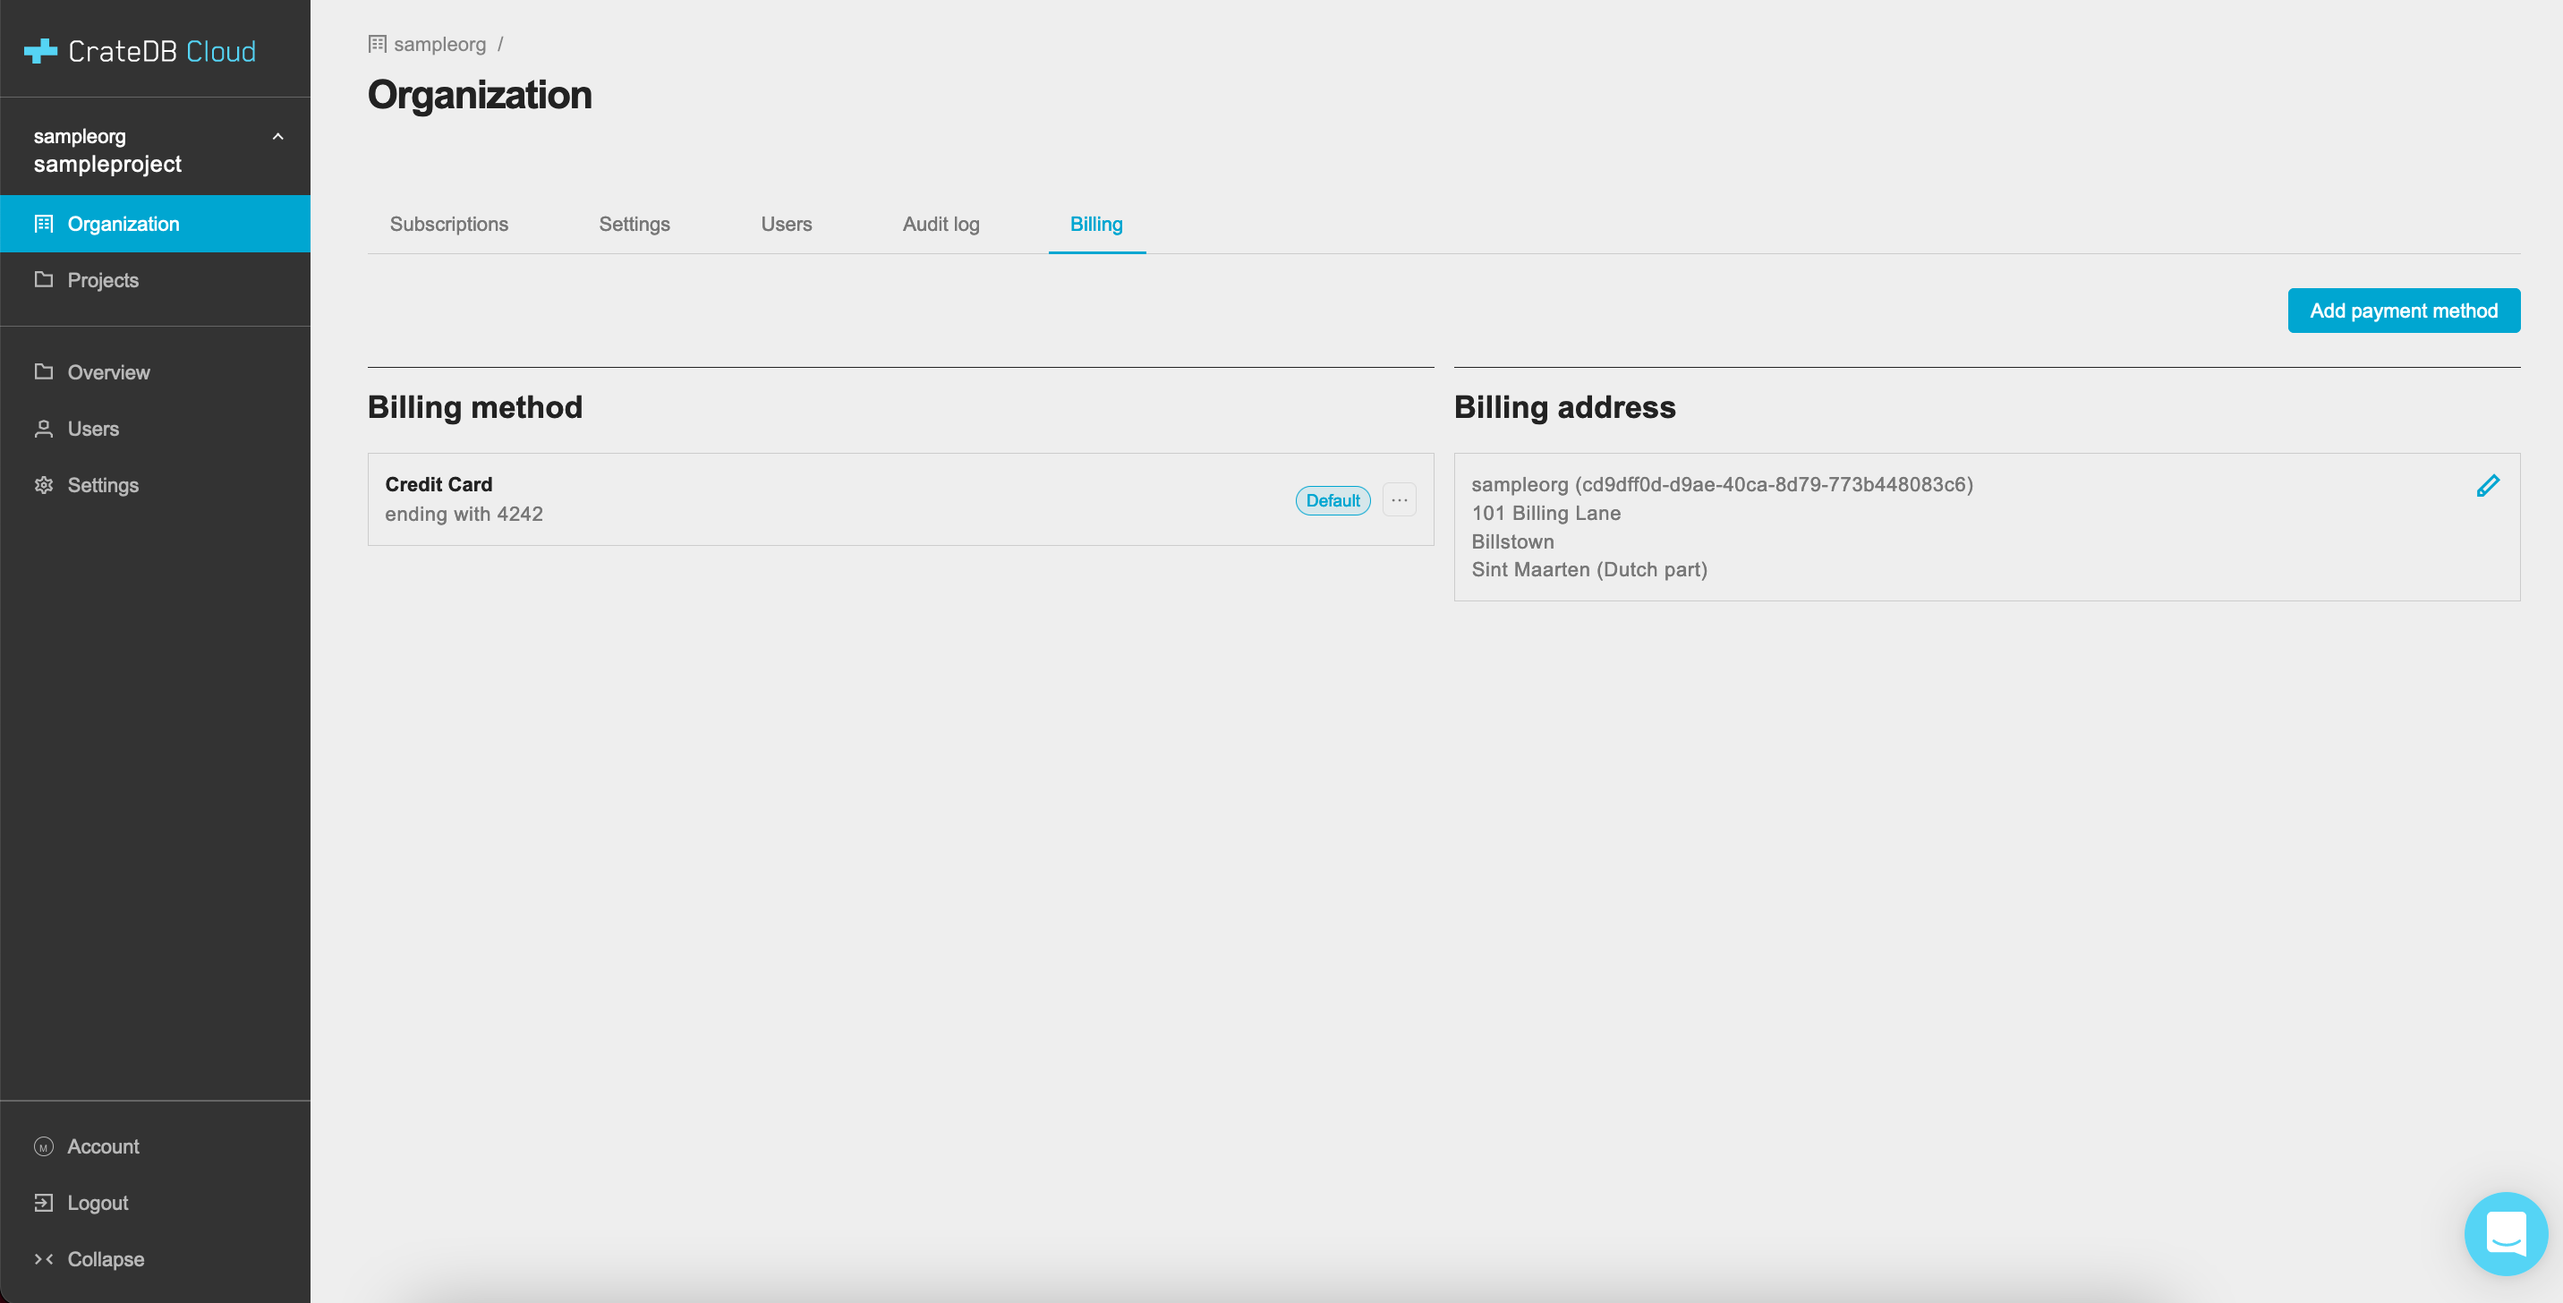
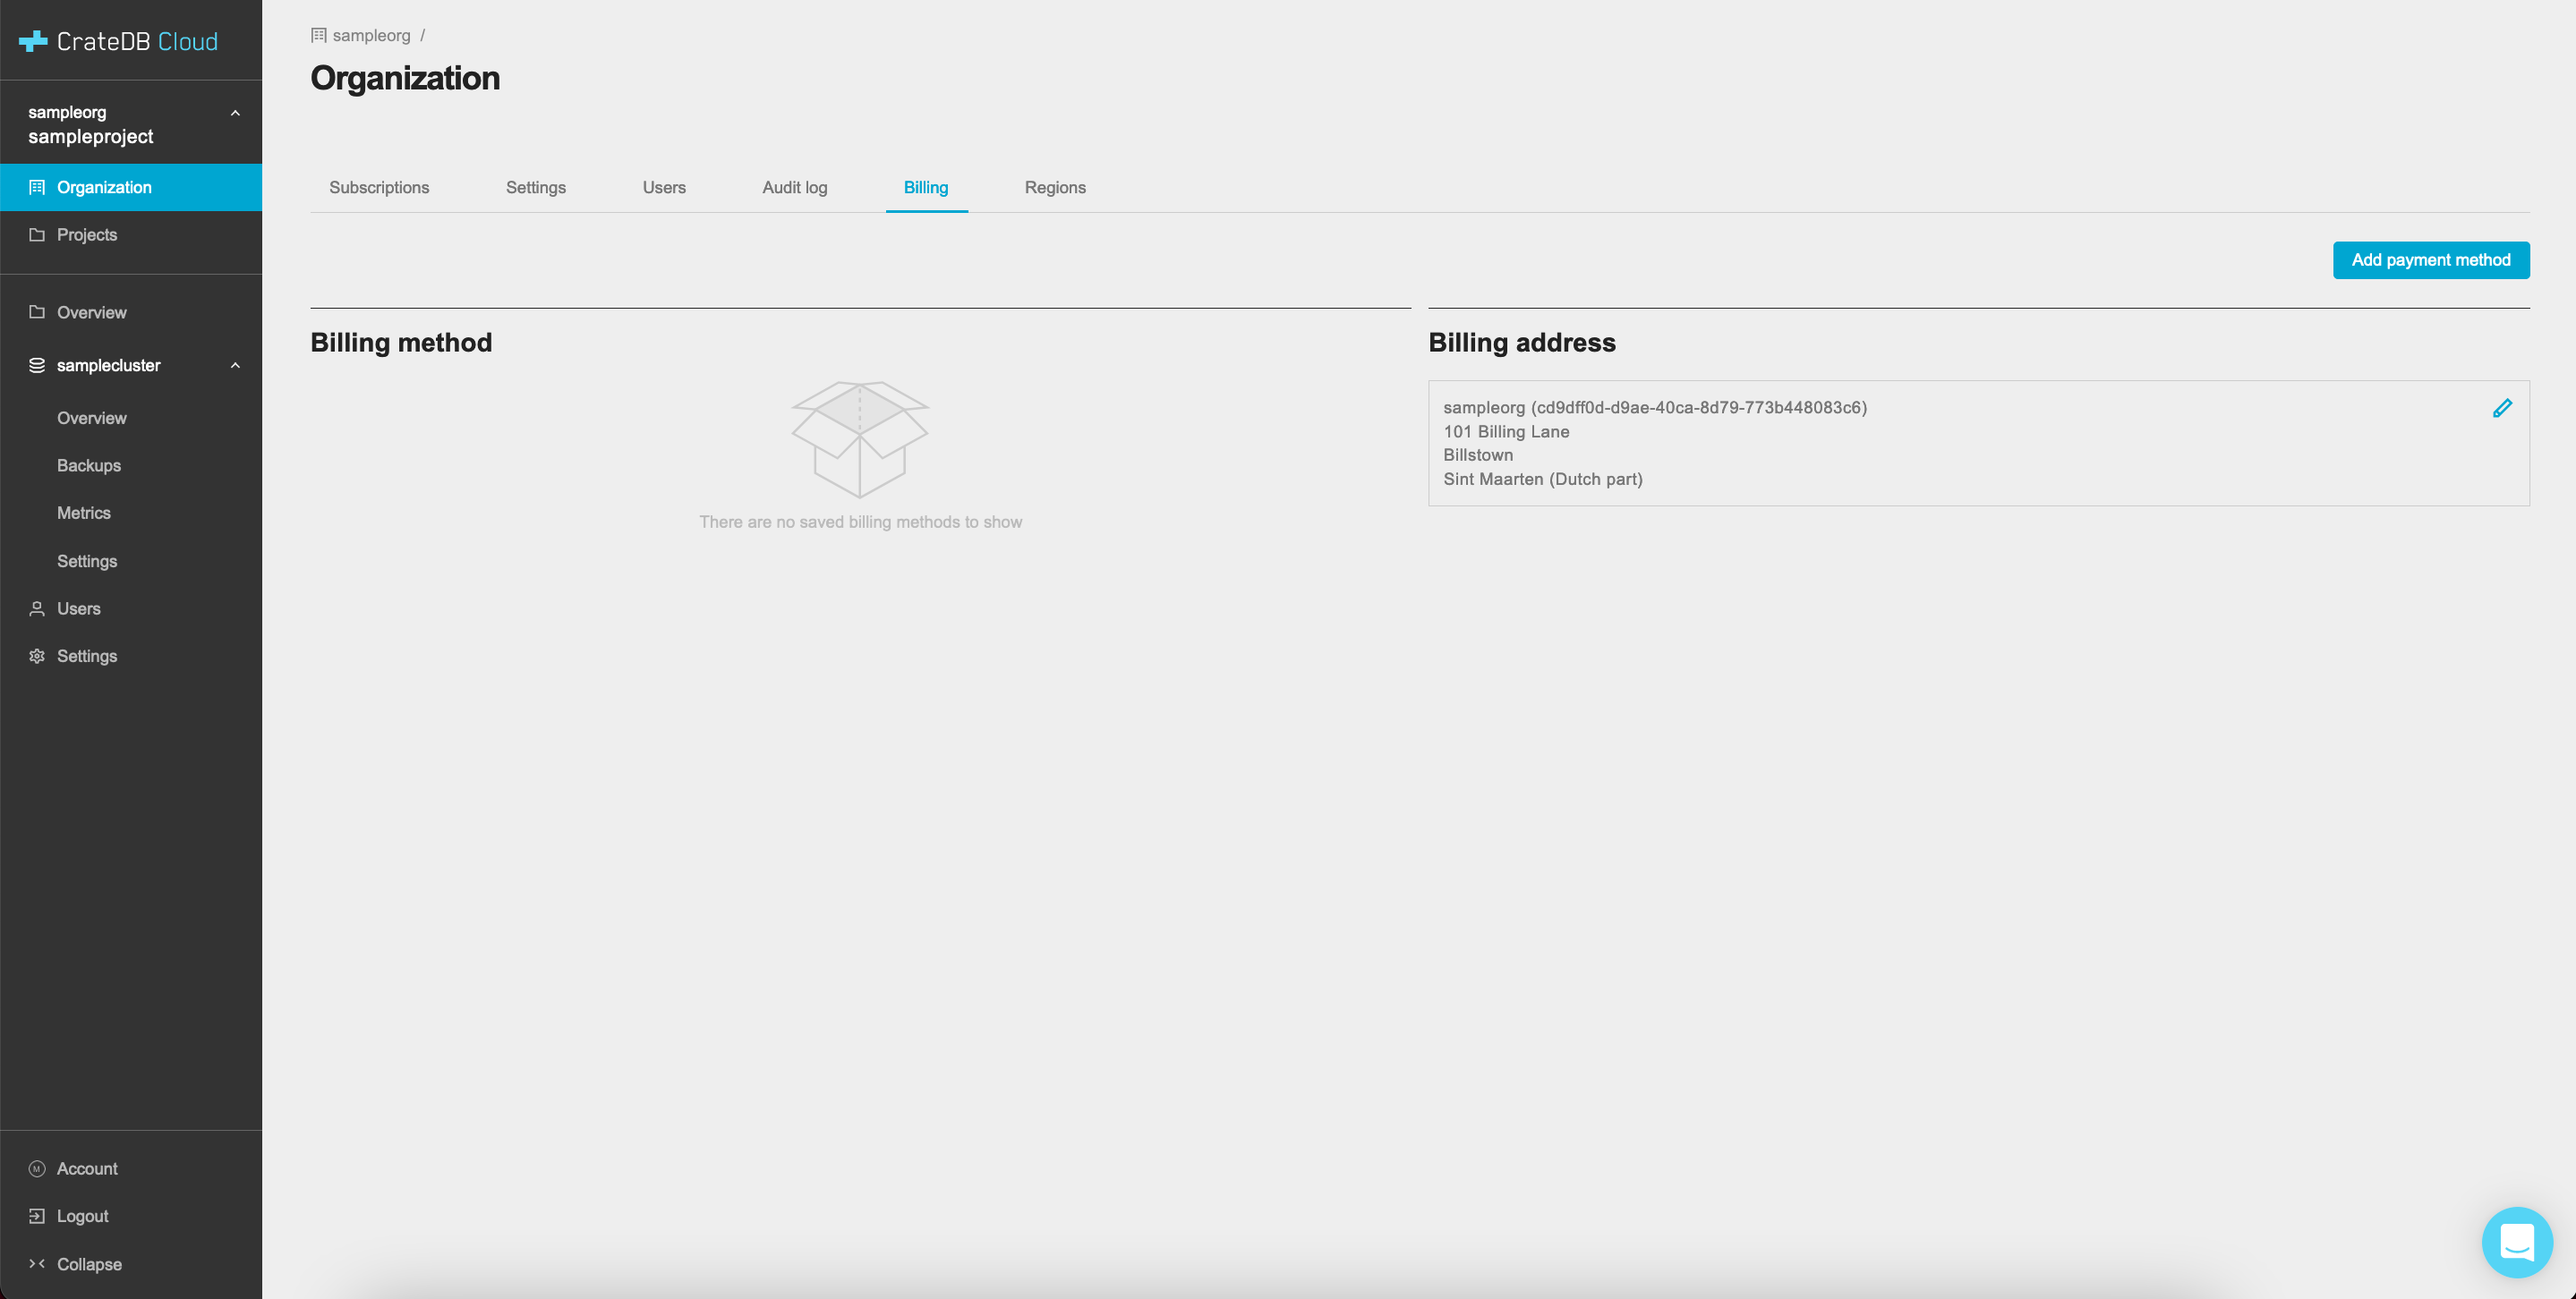
Refresh: Update to Console documentation to reflect UI changes

diff --git a/docs/overview.rst b/docs/overview.rst
@@ -53,8 +53,7 @@ If you don't have a Cloud Console account yet, follow the steps in the `signup
 tutorial`_. Select the authentication method you wish to use. From there, you
 will be given the option to sign up.
 
-Once signed in, you will be presented with your :ref:`organization overview
-<overview-org-overview>` on the Organization page.
+Once signed in, you will be presented with the Organization Overview.
 
 
 .. _overview-org-overview:
@@ -62,25 +61,25 @@ Once signed in, you will be presented with your :ref:`organization overview
 Organization
 ============
 
-The Organization page lists the organizations and projects you can access.
+The Organization Overview lists the organizations and projects you can access.
 
-If you follow the `tutorial`_ instructions and deploy a test cluster,
-your organization overview will look something like this:
+If you follow the `tutorial`_ instructions and deploy a test cluster, your
+Organization Overview will look something like this:
 
 .. image:: _assets/img/organization-overview.png
    :alt: Cloud Console organization overview
 
-The Organization screen consists of five tabs: *Subscriptions*, *Settings*,
-*Users*, the *Audit Log*, and finally *Billing*. By default it shows the
-Subscriptions tab, which displays two things. On the left, it shows the
-possible cloud providers and a link for creating a subscription with them. On
-the right, you will see your current subscription (if any). This panel also
+The Organization Overview consists of six tabs: *Subscriptions*, *Settings*,
+*Users*, the *Audit Log*, *Billing*, and finally, *Regions*. By default it
+shows the Subscriptions tab, which displays two things. On the left, it shows
+the possible cloud providers and a link for creating a subscription with them.
+On the right, you will see your current subscription (if any). This panel also
 shows subscription details: the status of the subscription, the subscription
 ID, the subscription cloud provider, the subscription type, and finally, any
 clusters deployed within the subscription with their respective subscription
 plans.
 
-The *Deploy cluster* button at the bottom left of any subscription box allows
+The *Deploy cluster* button at the bottom left of any subscription panel allows
 you to directly deploy clusters within that subscription. The button with three
 dots at the bottom right allows you to cancel that subscription.
 
@@ -163,6 +162,17 @@ On the right-hand side, you will see the billing information. This can be
 edited by using the pen icon at the top right.
 
 
+Organization Regions
+--------------------
+
+The Regions tab shows you the currently available regions for cluster
+deployment. Each panel shows the region, in other words a server location, and
+the corresponding cloud provider or subscription provider responsible for that
+region. Below each region panel you will find a button labeled *Deploy
+Cluster*. Clicking this will allow you to deploy a cluster directly into that
+region.
+
+
 .. _overview-projects:
 
 Projects
@@ -176,9 +186,10 @@ of deployment.
    :alt: Cloud Console projects overview
 
 The projects are selected by region. By default, the region dropdown menu is
-set to 'All'. To see projects deployed in specific regions, select that region
-from the menu. You can also create a new project for the organization in the
-selected region by clicking the *Create project* button in the top right.
+set to the region where your project is located (if any). To see projects
+deployed in specific regions, select that region from the menu. You can also
+create a new project for the organization in the selected region by clicking
+the *Create project* button in the top right.
 
 The cog icon next to each project takes you to the Project Settings page, in
 the menu simply called Settings, as :ref:`described further below
@@ -237,6 +248,7 @@ selected. It also displays metrics for the cluster.
 .. image:: _assets/img/cluster-overview.png
    :alt: Cloud Console cluster overview page
 
+
 Info
 ~~~~
 
@@ -282,8 +294,11 @@ information about the cluster. This includes:
 For more information on the CrateDB concepts used here, refer to the `CrateDB
 architecture documentation`_ or the :ref:`glossary<glossary>`.
 
-Metrics
-~~~~~~~
+
+.. _overview-cluster-overview-metrics:
+
+Configuration, Usage, and Metrics
+~~~~~~~~~~~~~~~~~~~~~~~~~~~~~~~~~
 
 On the rest of the page you will find various cluster metrics. In the center
 you will see an overview of general usage in the past week, including storage,
@@ -300,14 +315,34 @@ on the Cluster Metrics page, for which see below. This page can also be
 accessed by clicking the *View metrics* link at the top right.
 
 
+.. _overview-cluster-backups:
+
+Cluster Backups
+---------------
+
+On the Cluster Backups page you can see any backups of your cluster. The
+dropdown menu at the top left allows you to select the timespan of backups you
+want to see.
+
+.. image:: _assets/img/cluster-backups.png
+   :alt: Cloud Console cluster backups page
+
+Any backups are listed with timestamps on the left side, under Timestamp. In
+the middle you will see any tables to restore in the backup, under the category
+Tables, and on the right is a *Restore* button for restoring the backup from
+that timestamp, listed under Action.
+
+
 .. _overview-cluster-metrics:
 
 Cluster Metrics
 ---------------
 
-The Cluster Metrics page provides live visualizations of how the cluster is
-functioning. It shows two graph panels: one for the average response time of a
-query (in milliseconds) and one for the total number of queries per second.
+The Cluster Metrics page (not to be confused with the :ref:`metrics section of
+the Cluster Overview page <overview-cluster-overview-metrics>`) provides live
+visualizations of how the cluster is functioning. It shows two graph panels:
+one for the average response time of a query (in milliseconds) and one for the
+total number of queries per second.
 
 .. image:: _assets/img/cluster-metrics.png
    :alt: Cloud Console cluster metrics page
@@ -322,20 +357,40 @@ directly by hovering over the relevant point on the time axis (the X axis).
 Cluster Settings
 ----------------
 
-On the page for Cluster Settings you get a quick overview of the subscription
-plan configuration of the cluster.
+The Cluster Settings page has two tabs: Cluster Access and Cluster Scale. The
+default tab, Cluster Access, shows you the username and password you defined to
+access your cluster directly. By clicking *Edit* at the top right, you can
+change the password.
 
 .. image:: _assets/img/cluster-settings.png
    :alt: Cloud Console cluster settings page
 
+
+.. _overview-cluster-settings-scale:
+
+Cluster Scale
+~~~~~~~~~~~~~
+
 The blue box on the left shows the current cluster subscription plan, including
 the tier and the scale unit. The scale unit can also be adjusted on this page.
+
+.. image:: _assets/img/cluster-settings-scale.png
+   :alt: Cloud Console cluster scaling page
+
 Using the overview showing the resources and the price for different scale
 units based on the selected subscription plan and tier, you can simply click
 the *Edit scale unit* button to adjust the scaling to the desired level.
 
-You can also delete your cluster here by clicking the bin icon at the top
-right. It will prompt you for confirmation.
+.. NOTE::
+
+    Any promotions or discounts applicable to your cluster will be applied for
+    your organization as a whole at the end of the billing period. Due to
+    technical limitations, they may not be directly visible in the cluster
+    scale pricing shown here, but do not worry! This does not mean that your
+    promotion or discount is not functioning.
+
+You can also delete your cluster here by clicking the *Delete cluster* button
+at the top right. It will prompt you for confirmation.
 
 .. WARNING::
 
